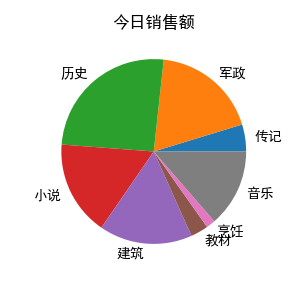
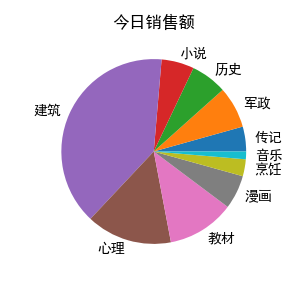
增加折线图

Changed region(s): [[0.12, 0.15, 0.96, 0.87], [0.81, 0.3, 0.9, 0.36], [0.69, 0.42, 0.81, 0.45]]

diff --git a/client/ui/shop_windows.py b/client/ui/shop_windows.py
@@ -2,17 +2,20 @@
 
 # Form implementation generated from reading ui file 'shop_windows.ui'
 #
-# Created by: PyQt5 UI code generator 5.9.2
+# Created by: PyQt5 UI code generator 5.15.4
 #
-# WARNING! All changes made in this file will be lost!
+# WARNING: Any manual changes made to this file will be lost when pyuic5 is
+# run again.  Do not edit this file unless you know what you are doing.
+
 
 from PyQt5 import QtCore, QtGui, QtWidgets
+
 
 class Ui_BMT_client_main_windows(object):
     def setupUi(self, BMT_client_main_windows):
         BMT_client_main_windows.setObjectName("BMT_client_main_windows")
-        BMT_client_main_windows.resize(1380, 900)
-        BMT_client_main_windows.setMaximumSize(QtCore.QSize(1380, 900))
+        BMT_client_main_windows.resize(1380, 950)
+        BMT_client_main_windows.setMaximumSize(QtCore.QSize(1380, 950))
         font = QtGui.QFont()
         font.setFamily("黑体")
         font.setPointSize(14)
@@ -36,7 +39,7 @@ class Ui_BMT_client_main_windows(object):
         self.client_name.setAlignment(QtCore.Qt.AlignCenter)
         self.client_name.setObjectName("client_name")
         self.table = QtWidgets.QTableWidget(self.centralwidget)
-        self.table.setGeometry(QtCore.QRect(20, 110, 731, 581))
+        self.table.setGeometry(QtCore.QRect(20, 110, 731, 641))
         font = QtGui.QFont()
         font.setPointSize(12)
         self.table.setFont(font)
@@ -77,7 +80,7 @@ class Ui_BMT_client_main_windows(object):
         self.table.setHorizontalHeaderItem(4, item)
         self.table.horizontalHeader().setDefaultSectionSize(170)
         self.date_time = QtWidgets.QLabel(self.centralwidget)
-        self.date_time.setGeometry(QtCore.QRect(850, 10, 411, 30))
+        self.date_time.setGeometry(QtCore.QRect(870, 10, 411, 30))
         font = QtGui.QFont()
         font.setFamily("Times New Roman")
         font.setPointSize(11)
@@ -86,7 +89,7 @@ class Ui_BMT_client_main_windows(object):
         self.date_time.setAlignment(QtCore.Qt.AlignRight|QtCore.Qt.AlignTrailing|QtCore.Qt.AlignVCenter)
         self.date_time.setObjectName("date_time")
         self.today_sales = QtWidgets.QLabel(self.centralwidget)
-        self.today_sales.setGeometry(QtCore.QRect(30, 710, 250, 40))
+        self.today_sales.setGeometry(QtCore.QRect(30, 770, 250, 40))
         font = QtGui.QFont()
         font.setFamily("Times New Roman")
         font.setPointSize(14)
@@ -96,7 +99,7 @@ class Ui_BMT_client_main_windows(object):
         self.today_sales.setAlignment(QtCore.Qt.AlignLeading|QtCore.Qt.AlignLeft|QtCore.Qt.AlignVCenter)
         self.today_sales.setObjectName("today_sales")
         self.today_pay = QtWidgets.QLabel(self.centralwidget)
-        self.today_pay.setGeometry(QtCore.QRect(30, 750, 250, 40))
+        self.today_pay.setGeometry(QtCore.QRect(30, 810, 250, 40))
         font = QtGui.QFont()
         font.setFamily("Times New Roman")
         font.setPointSize(14)
@@ -106,7 +109,7 @@ class Ui_BMT_client_main_windows(object):
         self.today_pay.setAlignment(QtCore.Qt.AlignLeading|QtCore.Qt.AlignLeft|QtCore.Qt.AlignVCenter)
         self.today_pay.setObjectName("today_pay")
         self.today_profit = QtWidgets.QLabel(self.centralwidget)
-        self.today_profit.setGeometry(QtCore.QRect(30, 790, 250, 40))
+        self.today_profit.setGeometry(QtCore.QRect(30, 850, 250, 40))
         font = QtGui.QFont()
         font.setFamily("Times New Roman")
         font.setPointSize(14)
@@ -116,7 +119,7 @@ class Ui_BMT_client_main_windows(object):
         self.today_profit.setAlignment(QtCore.Qt.AlignLeading|QtCore.Qt.AlignLeft|QtCore.Qt.AlignVCenter)
         self.today_profit.setObjectName("today_profit")
         self.total_profit = QtWidgets.QLabel(self.centralwidget)
-        self.total_profit.setGeometry(QtCore.QRect(350, 790, 250, 40))
+        self.total_profit.setGeometry(QtCore.QRect(350, 850, 250, 40))
         font = QtGui.QFont()
         font.setFamily("Times New Roman")
         font.setPointSize(14)
@@ -126,7 +129,7 @@ class Ui_BMT_client_main_windows(object):
         self.total_profit.setAlignment(QtCore.Qt.AlignLeading|QtCore.Qt.AlignLeft|QtCore.Qt.AlignVCenter)
         self.total_profit.setObjectName("total_profit")
         self.total_sales = QtWidgets.QLabel(self.centralwidget)
-        self.total_sales.setGeometry(QtCore.QRect(350, 710, 250, 40))
+        self.total_sales.setGeometry(QtCore.QRect(350, 770, 250, 40))
         font = QtGui.QFont()
         font.setFamily("Times New Roman")
         font.setPointSize(14)
@@ -136,7 +139,7 @@ class Ui_BMT_client_main_windows(object):
         self.total_sales.setAlignment(QtCore.Qt.AlignLeading|QtCore.Qt.AlignLeft|QtCore.Qt.AlignVCenter)
         self.total_sales.setObjectName("total_sales")
         self.total_pay = QtWidgets.QLabel(self.centralwidget)
-        self.total_pay.setGeometry(QtCore.QRect(350, 750, 250, 40))
+        self.total_pay.setGeometry(QtCore.QRect(350, 810, 250, 40))
         font = QtGui.QFont()
         font.setFamily("Times New Roman")
         font.setPointSize(14)
@@ -146,28 +149,28 @@ class Ui_BMT_client_main_windows(object):
         self.total_pay.setAlignment(QtCore.Qt.AlignLeading|QtCore.Qt.AlignLeft|QtCore.Qt.AlignVCenter)
         self.total_pay.setObjectName("total_pay")
         self.today_sales_plot = QtWidgets.QLabel(self.centralwidget)
-        self.today_sales_plot.setGeometry(QtCore.QRect(760, 60, 300, 300))
+        self.today_sales_plot.setGeometry(QtCore.QRect(760, 40, 300, 300))
         self.today_sales_plot.setStyleSheet("background-color: rgb(255, 255, 255);")
         self.today_sales_plot.setFrameShape(QtWidgets.QFrame.Box)
         self.today_sales_plot.setFrameShadow(QtWidgets.QFrame.Sunken)
         self.today_sales_plot.setAlignment(QtCore.Qt.AlignCenter)
         self.today_sales_plot.setObjectName("today_sales_plot")
         self.total_sales_plot = QtWidgets.QLabel(self.centralwidget)
-        self.total_sales_plot.setGeometry(QtCore.QRect(760, 370, 300, 300))
+        self.total_sales_plot.setGeometry(QtCore.QRect(760, 350, 300, 300))
         self.total_sales_plot.setStyleSheet("background-color: rgb(255, 255, 255);")
         self.total_sales_plot.setFrameShape(QtWidgets.QFrame.Box)
         self.total_sales_plot.setFrameShadow(QtWidgets.QFrame.Sunken)
         self.total_sales_plot.setAlignment(QtCore.Qt.AlignCenter)
         self.total_sales_plot.setObjectName("total_sales_plot")
         self.today_pay_plot = QtWidgets.QLabel(self.centralwidget)
-        self.today_pay_plot.setGeometry(QtCore.QRect(1070, 60, 300, 300))
+        self.today_pay_plot.setGeometry(QtCore.QRect(1070, 40, 300, 300))
         self.today_pay_plot.setStyleSheet("background-color: rgb(255, 255, 255);")
         self.today_pay_plot.setFrameShape(QtWidgets.QFrame.Box)
         self.today_pay_plot.setFrameShadow(QtWidgets.QFrame.Sunken)
         self.today_pay_plot.setAlignment(QtCore.Qt.AlignCenter)
         self.today_pay_plot.setObjectName("today_pay_plot")
         self.total_pay_plot = QtWidgets.QLabel(self.centralwidget)
-        self.total_pay_plot.setGeometry(QtCore.QRect(1070, 370, 300, 300))
+        self.total_pay_plot.setGeometry(QtCore.QRect(1070, 350, 300, 300))
         self.total_pay_plot.setStyleSheet("background-color: rgb(255, 255, 255);")
         self.total_pay_plot.setFrameShape(QtWidgets.QFrame.Box)
         self.total_pay_plot.setFrameShadow(QtWidgets.QFrame.Sunken)
@@ -190,7 +193,7 @@ class Ui_BMT_client_main_windows(object):
         self.time_to.setCursor(QtGui.QCursor(QtCore.Qt.PointingHandCursor))
         self.time_to.setObjectName("time_to")
         self.refresh = QtWidgets.QPushButton(self.centralwidget)
-        self.refresh.setGeometry(QtCore.QRect(610, 20, 75, 30))
+        self.refresh.setGeometry(QtCore.QRect(610, 20, 61, 30))
         font = QtGui.QFont()
         font.setFamily("Agency FB")
         font.setPointSize(12)
@@ -199,7 +202,7 @@ class Ui_BMT_client_main_windows(object):
         self.refresh.setFocusPolicy(QtCore.Qt.ClickFocus)
         self.refresh.setObjectName("refresh")
         self.sales_trend_plot = QtWidgets.QLabel(self.centralwidget)
-        self.sales_trend_plot.setGeometry(QtCore.QRect(760, 680, 611, 211))
+        self.sales_trend_plot.setGeometry(QtCore.QRect(760, 660, 610, 280))
         self.sales_trend_plot.setStyleSheet("background-color: rgb(255, 255, 255);")
         self.sales_trend_plot.setFrameShape(QtWidgets.QFrame.Box)
         self.sales_trend_plot.setFrameShadow(QtWidgets.QFrame.Sunken)
@@ -214,7 +217,7 @@ class Ui_BMT_client_main_windows(object):
         self.increase_inventory.setCursor(QtGui.QCursor(QtCore.Qt.PointingHandCursor))
         self.increase_inventory.setObjectName("increase_inventory")
         self.call_for_help = QtWidgets.QCommandLinkButton(self.centralwidget)
-        self.call_for_help.setGeometry(QtCore.QRect(460, 850, 180, 30))
+        self.call_for_help.setGeometry(QtCore.QRect(460, 910, 180, 30))
         font = QtGui.QFont()
         font.setFamily("Segoe UI")
         font.setPointSize(10)
@@ -226,7 +229,7 @@ class Ui_BMT_client_main_windows(object):
         self.call_for_help.setIcon(icon1)
         self.call_for_help.setObjectName("call_for_help")
         self.back = QtWidgets.QPushButton(self.centralwidget)
-        self.back.setGeometry(QtCore.QRect(350, 850, 90, 30))
+        self.back.setGeometry(QtCore.QRect(350, 910, 90, 30))
         font = QtGui.QFont()
         font.setFamily("Agency FB")
         font.setPointSize(12)
@@ -237,6 +240,14 @@ class Ui_BMT_client_main_windows(object):
         self.client_logo = QtWidgets.QLabel(self.centralwidget)
         self.client_logo.setGeometry(QtCore.QRect(70, -10, 128, 128))
         self.client_logo.setObjectName("client_logo")
+        self.pricechange = QtWidgets.QPushButton(self.centralwidget)
+        self.pricechange.setGeometry(QtCore.QRect(240, 910, 90, 30))
+        font = QtGui.QFont()
+        font.setFamily("Agency FB")
+        font.setPointSize(12)
+        self.pricechange.setFont(font)
+        self.pricechange.setCursor(QtGui.QCursor(QtCore.Qt.PointingHandCursor))
+        self.pricechange.setObjectName("pricechange")
         self.client_name.raise_()
         self.client_logo.raise_()
         self.table.raise_()
@@ -258,6 +269,7 @@ class Ui_BMT_client_main_windows(object):
         self.today_profit.raise_()
         self.total_profit.raise_()
         self.today_sales.raise_()
+        self.pricechange.raise_()
         BMT_client_main_windows.setCentralWidget(self.centralwidget)
 
         self.retranslateUi(BMT_client_main_windows)
@@ -296,8 +308,9 @@ class Ui_BMT_client_main_windows(object):
         self.call_for_help.setText(_translate("BMT_client_main_windows", "联系客服(点我复制)"))
         self.back.setText(_translate("BMT_client_main_windows", "回到主页>"))
         self.client_logo.setText(_translate("BMT_client_main_windows", "<html><head/><body><p><img src=\":/logo/resource/BMT_128.ico\"/></p></body></html>"))
-
+        self.pricechange.setText(_translate("BMT_client_main_windows", "修改售价"))
 import resource_rc
+
 
 if __name__ == "__main__":
     import sys
@@ -307,4 +320,3 @@ if __name__ == "__main__":
     ui.setupUi(BMT_client_main_windows)
     BMT_client_main_windows.show()
     sys.exit(app.exec_())
-

diff --git a/client/BMT_client.py b/client/BMT_client.py
@@ -118,7 +118,7 @@ class main_window(QMainWindow):
             if i.isChecked():
                 books_number += 1
                 total_price += float(self.ui.table.item(self.ui.check_list.index(i), 4).text())
-        rec_code = QMessageBox.question(self, "询问", "您选购了{}本书，共计{}元，确认购买？".format(books_number,total_price), QMessageBox.Yes | QMessageBox.No)
+        rec_code = QMessageBox.question(self, "询问", "您选购了{}本书，共计{}元，确认购买？".format(books_number,round(total_price),2), QMessageBox.Yes | QMessageBox.No)
         # 65536代表选择否
         if rec_code == 65536:
             pass
@@ -201,7 +201,7 @@ class main_window(QMainWindow):
         self.ui.check_list = []
         data = self.read_table(pic_type, books_type)
         for books_info in data:
-            self.add_row(books_info[2], books_info[3], books_info[7], books_info[6], books_info[9])
+            self.add_row(books_info[2], books_info[3], books_info[7], round(books_info[6],2), books_info[9])
 
     def show_table(self):
         # 添加表格对象
@@ -221,7 +221,7 @@ class main_window(QMainWindow):
         self.books_info_db = './books_info.db'
         data = self.read_table()
         for books_info in data:
-            self.add_row(books_info[2], books_info[3], books_info[7], books_info[6], books_info[9])
+            self.add_row(books_info[2], books_info[3], books_info[7], round(books_info[6],2), books_info[9])
 
     def read_table(self, pic_type="total", books_type="total"):
         """读取数据库中的所有元素"""
@@ -578,7 +578,7 @@ class shop_window(QMainWindow):
         self.ui.increase_inventory.clicked.connect(self.increase_inventory)
 
     def increase_inventory(self):
-        rec_code = QMessageBox.question(self, "询问", "确认投递采购清单给商店？", QMessageBox.Yes | QMessageBox.No)
+        rec_code = QMessageBox.question(self, "询问", "确认增加库存？", QMessageBox.Yes | QMessageBox.No)
         # 65536代表选择否
         if rec_code == 65536:
             pass
@@ -617,6 +617,8 @@ class shop_window(QMainWindow):
         connect.close()
         ph_data = pd.DataFrame(ph_data_total)
         ph_data.columns = "user_name books_type books_name purchase_price current_selling_price time".split(sep=" ")
+        current_date = QDate.currentDate()
+        ph_data = ph_data.loc[[QDate.fromString('-'.join(i.split('-')[0:3]),"yyyy-M-d") == current_date for i in ph_data.time],:]
         ph_data[["purchase_price","current_selling_price"]] = ph_data[["purchase_price","current_selling_price"]].astype(float)
         ph_data["profit"] = ph_data["current_selling_price"]-ph_data["purchase_price"]
 
@@ -625,8 +627,7 @@ class shop_window(QMainWindow):
         ph_data["sales_profit"] = ph_data.groupby(["books_name"])["profit"].transform("sum")
         # 保留两位小数
         ph_data["sales_profit"] = ph_data["sales_profit"].round(2)
-        current_date = QDate.currentDate()
-        ph_data = ph_data.loc[[QDate.fromString('-'.join(i.split('-')[0:3]),"yyyy-M-d") == current_date for i in ph_data.time],:]
+
         # 显示销售情况
         days = 0
         today_sales = round(sum(ph_data["current_selling_price"]),2)
@@ -750,7 +751,42 @@ class shop_window(QMainWindow):
         plt.savefig('total_pay_plot.png')
         plt.close()
         self.ui.total_pay_plot.setPixmap(QPixmap('total_pay_plot.png'))
-
+        # 绘制销售情况变化
+        self.purchase_history_db = "./purchase_history.db"
+        connect = sqlite3.connect(self.purchase_history_db)
+        cursor = connect.cursor()
+        sql = 'SELECT * FROM database'
+        result = cursor.execute(sql)
+        self.ph_data_total = result.fetchall()
+        connect.commit()
+        connect.close()
+        self.ph_data = pd.DataFrame(self.ph_data_total)
+        self.ph_data.columns = "user_name books_type books_name purchase_price current_selling_price time".split(sep=" ")
+        self.ph_data["date"] = self.ph_data["time"].apply(lambda x:"-".join(x.split("-")[0:3]))
+        self.ph_data[["purchase_price","current_selling_price"]] = self.ph_data[["purchase_price","current_selling_price"]].astype(float)
+        self.ph_data["profit"] = self.ph_data["current_selling_price"]-self.ph_data["purchase_price"]
+        date_list = self.ph_data["date"].drop_duplicates()
+        tmp = pd.DataFrame()
+        for i in date_list:
+            data = self.ph_data.loc[self.ph_data.date == i]
+            day_profit = data.groupby("books_type")["profit"].agg("sum")
+            tmp = pd.concat([tmp,day_profit],axis=1)
+        tmp.columns = date_list
+        tmp = tmp.fillna(0)
+        tmp = tmp.astype(float).round(2).T
+        tmp['全部'] = tmp.apply(sum,axis=1)
+        plt.figure(figsize=(6,2.8))
+        plt.title("每日利润折线图")
+        plt.xlabel("日期")
+        plt.ylabel("利润")
+        plt.xticks(rotation=30)
+        for i in tmp.columns:
+            plt.plot(tmp.index,tmp[i])
+        plt.legend(tmp.columns,ncol = 1,bbox_to_anchor=(1.05, 1))
+        plt.tight_layout()
+        plt.savefig('date_profit.png')
+        plt.close()
+        self.ui.sales_trend_plot.setPixmap(QPixmap('date_profit.png'))
 
     def add_row(self, books_type, books_name, sales_number, sales_money, sales_profit):
         """在表格上添加一行新的内容"""

diff --git a/client/Account_Database.py b/client/Account_Database.py
@@ -141,5 +141,5 @@ if __name__ == '__main__':
     # data.insert_table('admin', 'password')
     data_ = data.read_table()
     print(data_)
-    # for i in range(23):  # 简单的创建用户
-    #     data.insert_table(chr(i + 65) * 5, chr(i + 65) + chr(i + 66) * 5)
+    # for i in range(24):  # 简单的创建用户
+    #     data.insert_table(chr(i + 65)+"123", chr(i + 65) + chr(i + 66)+"1234")

diff --git a/client/Admin.py b/client/Admin.py
@@ -1,4 +1,5 @@
 # -*- coding: utf-8 -*-
+# -*- coding: utf-8 -*-
 # @Time : 2021/12/15 12:39 上午
 # @Author : huyan
 # @FileName: Admin.py
